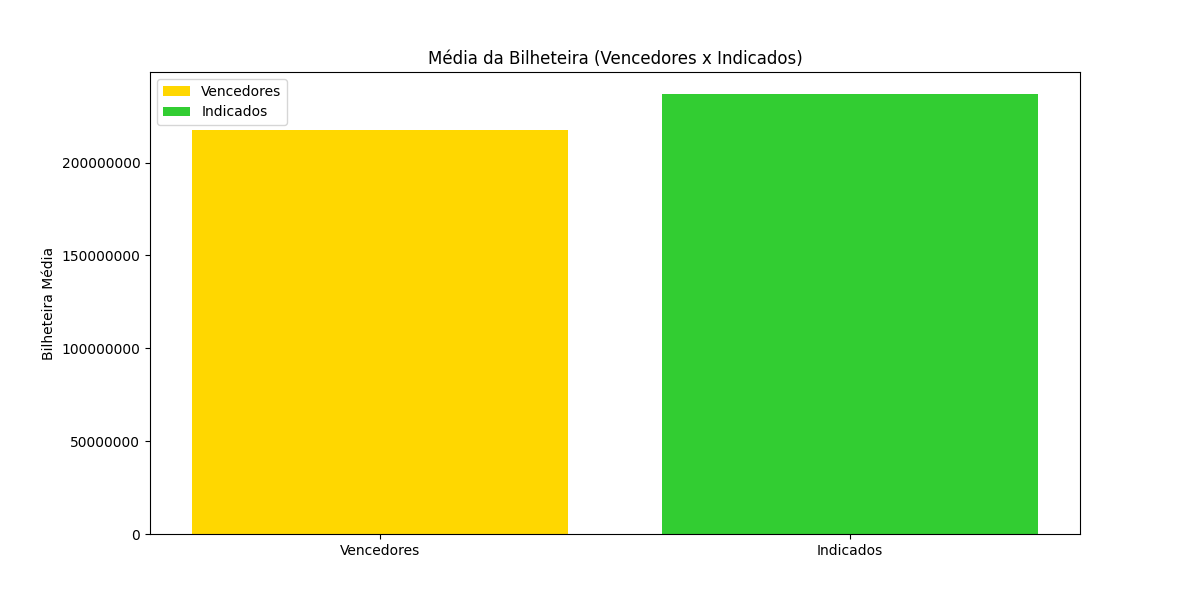
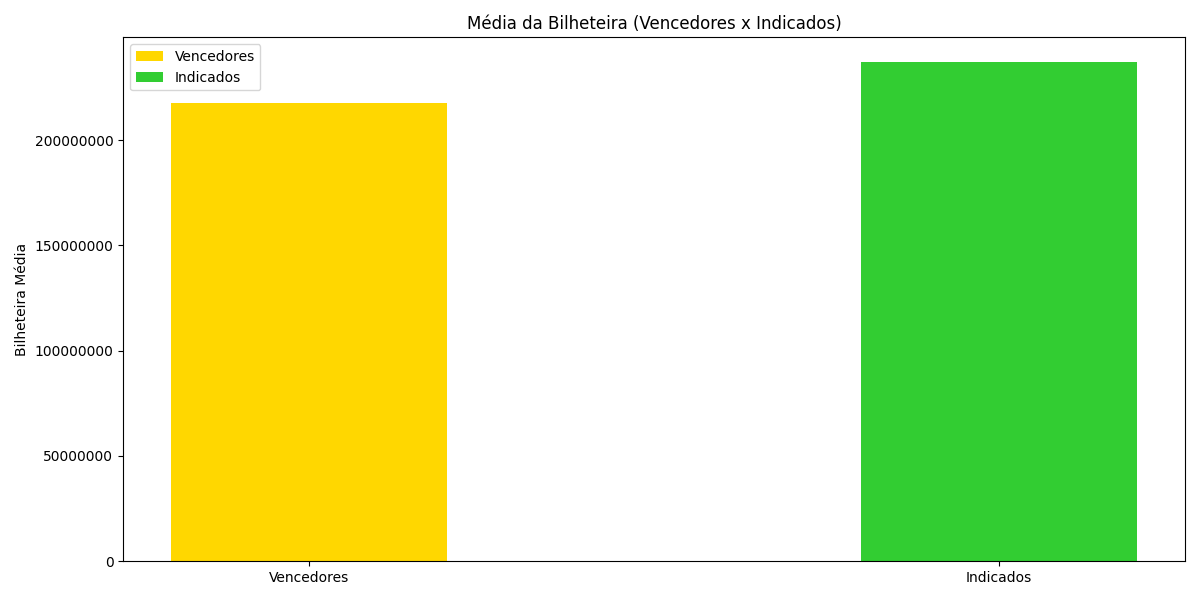
Add files via upload

diff --git a/Main.py b/Main.py
@@ -29,12 +29,15 @@ media_vencedores = df_vencedores['boxoffice'].mean()
 media_indicados = df_indicados['boxoffice'].mean()
 
 # agrupando a bilheteria média por ano de vencedores e indicados
-bilheteria_por_ano_vencedores = df_vencedores.groupby('year_film')['boxoffice'].mean()
-bilheteria_por_ano_indicados = df_indicados.groupby('year_film')['boxoffice'].mean()
+bilheteria_por_ano_vencedores = df_vencedores.groupby('year_film')[
+    'boxoffice'].mean()
+bilheteria_por_ano_indicados = df_indicados.groupby('year_film')[
+    'boxoffice'].mean()
 
 # criando um gráfico de barras para os top 20 filmes vencedores com maior bilheteria
 plt.figure(figsize=(12, 6))
-plt.bar(df_vencedores_top20['film'], df_vencedores_top20['boxoffice'], color='gold')
+plt.bar(df_vencedores_top20['film'],
+        df_vencedores_top20['boxoffice'], color='gold')
 plt.title('Top 20 filmes vencedores de Oscar com maior bilheteria')
 plt.xlabel('Filmes')
 plt.ylabel('Bilheteria')
@@ -45,7 +48,8 @@ plt.show()
 
 # criando um gráfico de barras para os top 20 filmes indicados com maior bilheteria
 plt.figure(figsize=(12, 6))
-plt.bar(df_indicados_top20['film'], df_indicados_top20['boxoffice'], color='limegreen')
+plt.bar(df_indicados_top20['film'],
+        df_indicados_top20['boxoffice'], color='limegreen')
 plt.title('Top 20 filmes indicados ao Oscar com maior bilheteria')
 plt.xlabel('Filmes')
 plt.ylabel('Bilheteria')
@@ -60,6 +64,7 @@ cores = ['gold', 'limegreen']
 plt.bar(
     ['Vencedores', 'Indicados'],
     [media_vencedores, media_indicados],
+    width=0.1,
     label=['Vencedores', 'Indicados'],
     color=cores
 )
